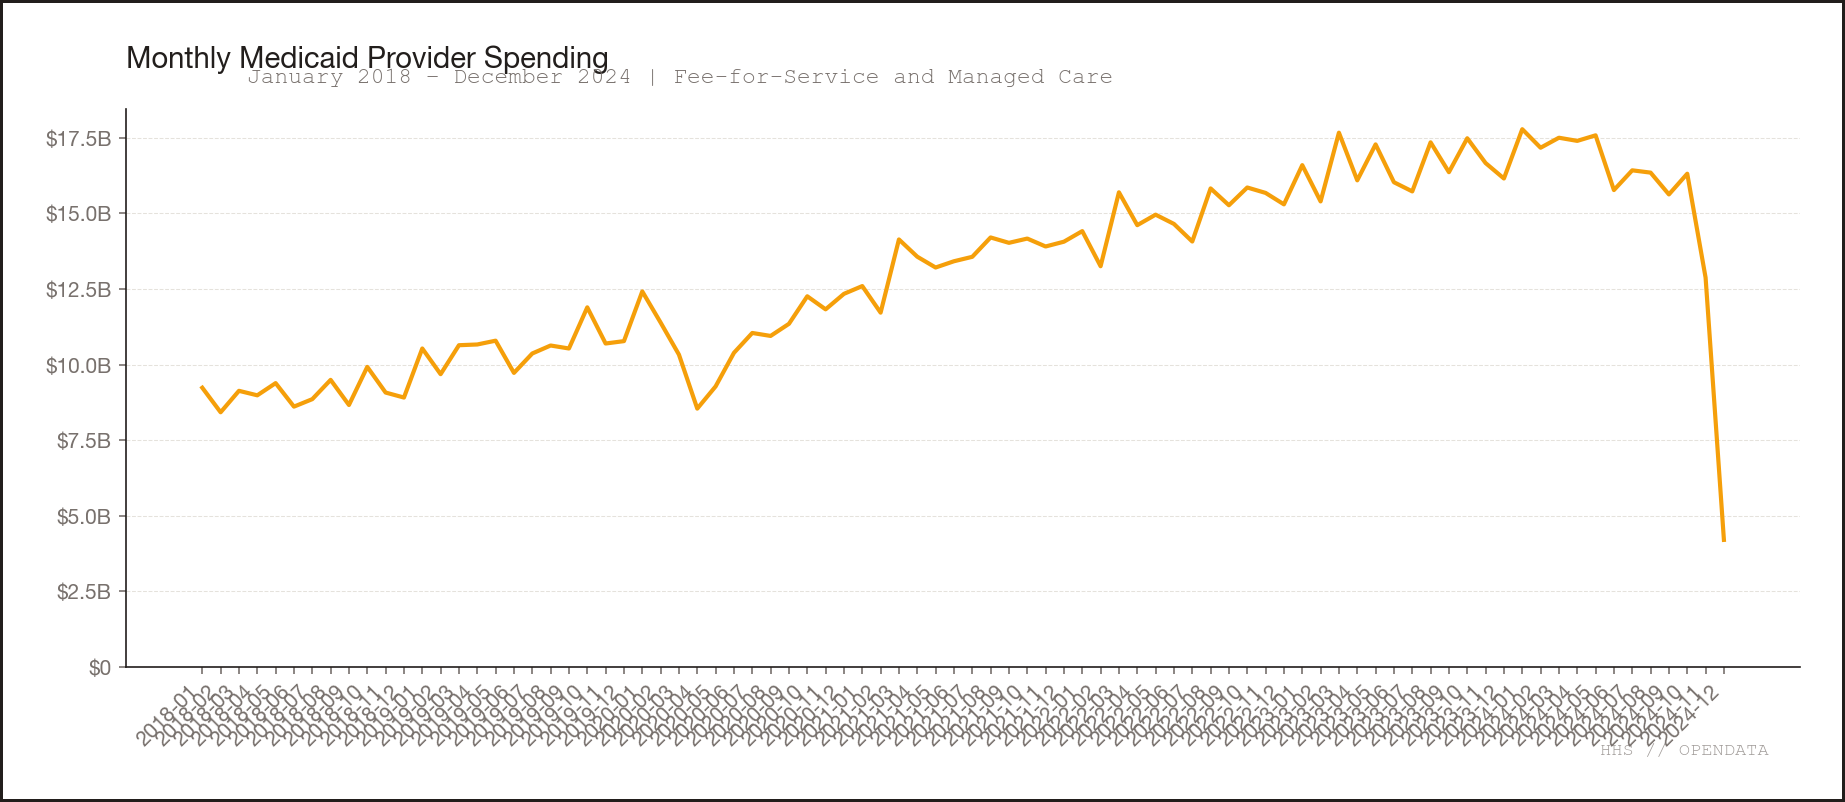
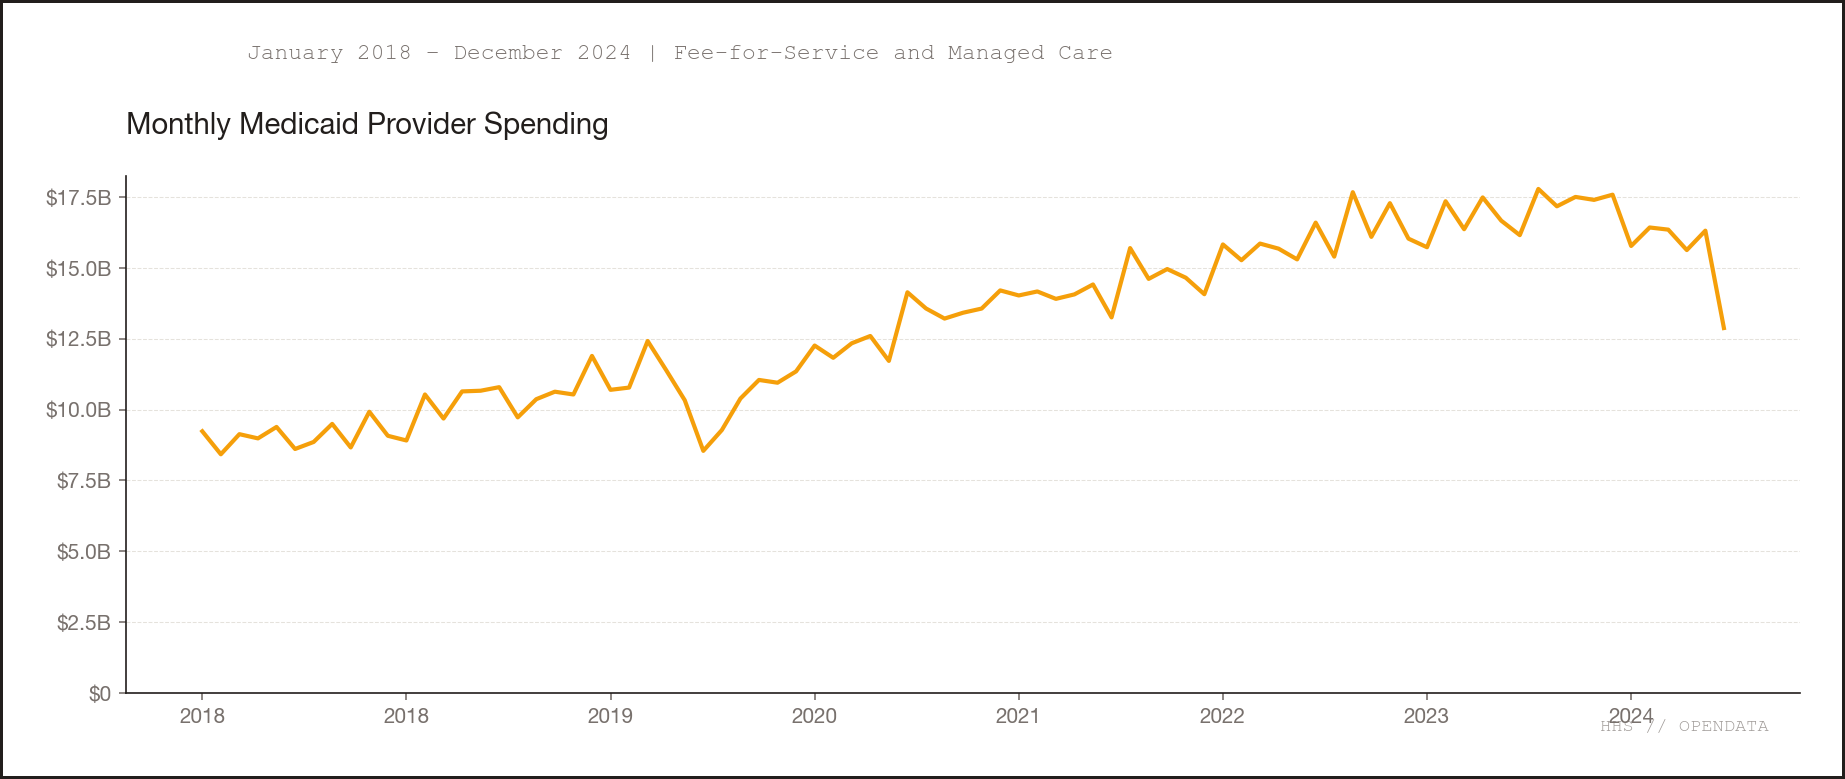
Add LTC nursing home trends blog post and fix monthly spending chart
Blog post transforms technical LTC analysis into plain-English narrative
covering $191B in long-term care spending, the facility-to-home shift,
and fraud risk implications. Chart fixes: thin x-axis labels for
readability, fix title/subtitle overlap, drop misleading Dec 2024
incomplete data point.

diff --git a/scripts/utils/chart_utils.py b/scripts/utils/chart_utils.py
@@ -180,13 +180,24 @@ def create_line_chart(x, y, title, subtitle, output_path, color=HHS_AMBER,
     ax.spines['top'].set_visible(False)
     ax.spines['right'].set_visible(False)
 
-    # Rotate x labels if many
+    # Thin x-axis labels for readability
     if len(x) > 20:
-        plt.xticks(rotation=45, ha='right')
+        step = max(1, len(x) // 7)  # aim for ~7 labels
+        tick_indices = list(range(0, len(x), step))
+        ax.set_xticks(tick_indices)
+        tick_labels = []
+        for i in tick_indices:
+            lbl = str(x[i])
+            # Simplify YYYY-MM or YYYY-MM-DD to just YYYY for yearly+ intervals
+            if step >= 10 and len(lbl) >= 7:
+                tick_labels.append(lbl[:4])
+            else:
+                tick_labels.append(lbl)
+        ax.set_xticklabels(tick_labels, rotation=0, ha='center')
 
     add_hhs_border(fig)
     add_hhs_branding(fig)
-    plt.tight_layout()
+    plt.tight_layout(rect=[0, 0, 1, 0.88])
     os.makedirs(os.path.dirname(output_path), exist_ok=True)
     fig.savefig(output_path, facecolor=fig.get_facecolor(), edgecolor=fig.get_edgecolor())
     plt.close(fig)

diff --git a/scripts/10_generate_charts.py b/scripts/10_generate_charts.py
@@ -55,6 +55,11 @@ def chart_monthly_spending(con):
     months = [r[0] for r in rows]
     paid = [r[1] for r in rows]
 
+    # Drop final month if incomplete (>50% drop from prior month)
+    if len(paid) >= 2 and paid[-1] < paid[-2] * 0.5:
+        months = months[:-1]
+        paid = paid[:-1]
+
     create_line_chart(
         months, paid,
         'Monthly Medicaid Provider Spending',

diff --git a/output/analysis/blog_ltc_nursing_home_trends.md b/output/analysis/blog_ltc_nursing_home_trends.md
@@ -1,0 +1,102 @@
+# Medicaid's $191 Billion Blind Spot
+
+*The fastest-growing long-term care services are the hardest to audit*
+
+---
+
+![Monthly Medicaid Provider Spending, Jan 2018 – Dec 2024](../charts/monthly_spending_trend.png)
+
+Medicaid spent $191.2 billion on long-term care between January 2018 and December 2024. That is 17.5% of every Medicaid dollar — one in five.
+
+Annual spending more than doubled: $15.5 billion in 2018 to $35.2 billion in 2023. That is 18% annual growth — more than double the 7-8% Medicaid average.
+
+Where is the money going? Away from nursing homes and into people's homes. And that is where the fraud problem starts.
+
+## The shift
+
+In 2018, nursing homes received 13.8% of long-term care dollars. By 2024: 8.3%. Active nursing home providers peaked at 5,102 in 2021, then dropped 25% to 3,843 in three years. The remaining facilities serve sicker patients at higher costs — cost per claim rose 32%, from $81 to $106.
+
+Home-based care absorbed the difference. Home health agencies and in-home personal care now take 84% of long-term care spending, up from 77% in 2018.
+
+| Year | Facility (NH/NF/SNF) | Home-Based (HHA + In-Home) | Assisted Living | Hospice |
+|------|----------------------|---------------------------|-----------------|---------|
+| 2018 | **13.8%** | **77.3%** | 3.4% | 5.5% |
+| 2020 | 10.7% | 81.6% | 3.3% | 4.4% |
+| 2023 | 9.8% | 82.5% | 4.0% | 3.7% |
+| 2024 | **8.3%** | **83.9%** | 4.2% | 3.5% |
+
+This reflects national policy. States moved patients out of institutions and into home settings. Most people prefer home. Home care costs less per person.
+
+But home care is structurally harder to verify. A nursing home has walls, staff schedules, sign-in logs, other patients. A home visit has none of that. The aide shows up — or doesn't — and a claim gets filed either way.
+
+Put more simply: the system chose convenience over accountability.
+
+## Home health spending doubled
+
+Home health agency spending went from $10.3 billion (2018) to $24.2 billion (2023). Providers grew 34%, from 6,230 to 8,063. Cost per patient rose 55%, from $1,130 to $1,748.
+
+Including in-home supportive care, total home-based spending reached $28.9 billion in 2023 — up from $11.9 billion in 2018. At this growth rate, long-term care spending alone would hit $80 billion by 2028.
+
+| Year | Home Health + In-Home Total | Year-over-Year Growth | Active Providers |
+|------|---------------------------|----------------------|-----------------|
+| 2018 | $11.9B | — | 7,775 |
+| 2019 | $16.5B | +38.3% | 8,339 |
+| 2020 | $20.1B | +22.1% | 9,213 |
+| 2021 | $23.1B | +14.9% | 9,655 |
+| 2022 | $25.2B | +8.8% | 9,848 |
+| 2023 | $28.9B | +15.0% | 10,194 |
+
+## One billing code: $122.7 billion
+
+![Top 20 Procedures by Total Spending — T1019 dominates at $122.7B](../charts/top20_procedures.png)
+
+Procedure code T1019 — personal care services, billed in 15-minute increments — accounts for $122.7 billion over the study period. That is 11.2% of all Medicaid spending and more than all facility-based nursing homes combined.
+
+T1019 grew from $9.7 billion (2018) to $22.8 billion (2023). Beneficiaries rose from 5.9 million to 9.2 million. Cost per beneficiary climbed from $1,630 to $2,485.
+
+| Year | T1019 Spending | Beneficiaries | $/Beneficiary | Year-over-Year |
+|------|---------------|---------------|---------------|----------------|
+| 2018 | $9.7B | 5.9M | $1,630 | — |
+| 2019 | $13.8B | 7.4M | $1,874 | +42.3% |
+| 2020 | $16.0B | 7.5M | $2,139 | +15.7% |
+| 2021 | $17.3B | 8.1M | $2,149 | +8.7% |
+| 2022 | $19.6B | 8.5M | $2,317 | +13.3% |
+| 2023 | $22.8B | 9.2M | $2,485 | +16.2% |
+
+New York takes 64% of all T1019 dollars nationally. In 2023, $14.7 billion of the $22.8 billion total flowed through New York at $3,375 per beneficiary — double the national average of ~$1,700. This is not random. New York's personal care programs attract fraudulent billing. Our analysis flagged New York home health agencies among the most suspicious providers in the dataset.
+
+## Attendant care quadrupled
+
+Attendant care (code S5125) went from $2.5 billion (2018) to $6.0 billion (2023). Claims volume quadrupled: 21 million to 79 million. Beneficiaries doubled: 1.7 million to 3.5 million.
+
+Services delivered behind closed doors with no independent verification.
+
+## Assisted living: fastest-growing facility type
+
+Assisted living grew from $521 million (2018) to $1.41 billion (2023) — 22% annually, the fastest of any long-term care category. Cost per beneficiary nearly doubled. Providers grew 57%.
+
+Assisted living fills the gap between home care and nursing homes. As nursing homes shrink, assisted living absorbs demand.
+
+## Tennessee's outlier
+
+Tennessee accounts for $5.2 billion — 28% of all nursing home spending nationally. The reason: its Department of Intellectual and Developmental Disabilities bills under "Nursing Home" codes. Two of the top five flagged providers in the entire dataset are Tennessee providers caught in this classification pattern.
+
+![Flagged Spending by State — NY and CA dominate](../charts/state_heatmap.png)
+
+## What does this mean?
+
+Three facts:
+
+**The hardest-to-audit services are growing fastest.** Home-based personal care spending is up 135% in five years. Attendant care claims quadrupled. Nursing homes — where services are easier to verify — are shrinking.
+
+**Spending concentrates in ways that amplify risk.** One billing code (T1019) exceeds all nursing homes combined. One state (New York) receives 64% of all personal care dollars.
+
+**Per-person costs are rising across every category.** Nursing homes: +44%. Home health: +55%. Assisted living: +99%. Some of this reflects wage increases and sicker patients. Rising per-person costs also create room for overbilling.
+
+The shift from nursing homes to home care is not the problem. The problem: oversight systems built for institutions were never rebuilt for a home-based world.
+
+At current growth, long-term care spending reaches $80 billion by 2028. That money will flow to services delivered in private homes with no independent verification. The question is whether oversight catches up before the spending does.
+
+---
+
+*Analysis based on CMS Medicaid provider spending data, January 2018 – December 2024. $1.09 trillion in payments across 227 million billing records. 2024 figures may understate actuals by 10-15% due to incomplete year-end submissions.*
